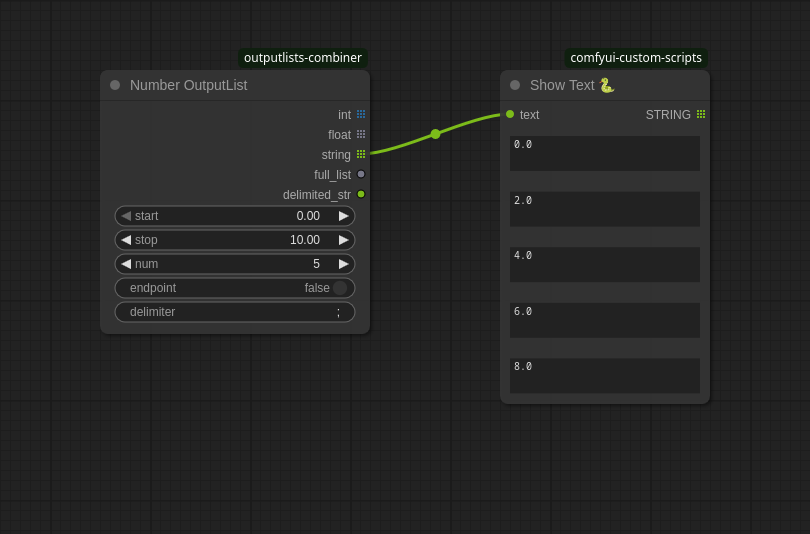
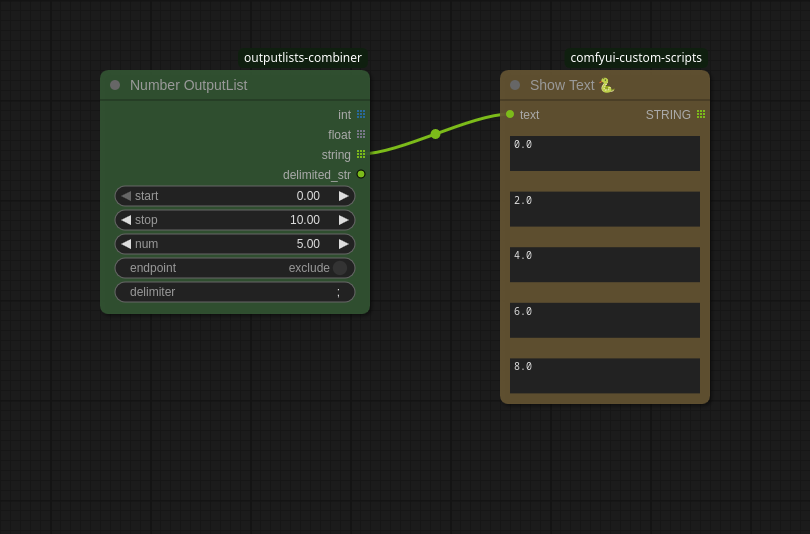
v0.0.2, removed full_lists, updated workflow examples

Changed region(s): [[0.1235, 0.1199, 0.463, 0.6292], [0.6173, 0.1199, 0.8951, 0.779]]

diff --git a/src/outputlists_combiner/nodes.py b/src/outputlists_combiner/nodes.py
@@ -20,7 +20,6 @@ inputs:
 outputs:
 * value: the values from the list. uses OUTPUT_IS_LIST=True and will be processed sequentially by corresponding nodes.
 * delimited_str: the list joined together by the delimiter, which is often useful for other nodes (like grid annotations).
-* full_list: the whole list without OUTPUT_IS_LIST=False in case some nodes require it.
 * count: the number of items in the list
 * inspect_combo: a dummy output only used to pre-fill the list with values from a COMBO input and will automatically disconnect again.
 """
@@ -41,9 +40,9 @@ outputs:
 			},
 		}
 
-	RETURN_NAMES	=	("value"	, "delimited_str"	, "full_list"	, "count"	, "inspect_combo"	)
-	RETURN_TYPES	=	(any	, "STRING"	, "STRING"	, "INT"	, "COMBO"	)
-	OUTPUT_IS_LIST	=	(True	, False	, False	, False	, False	)
+	RETURN_NAMES	=	("value"	, "delimited_str"	, "count"	, "inspect_combo"	)
+	RETURN_TYPES	=	(any	, "STRING"	, "INT"	, "COMBO"	)
+	OUTPUT_IS_LIST	=	(True	, False	, False	, False	)
 	FUNCTION	= "execute"
 	CATEGORY	= "Utility"
 
@@ -53,7 +52,7 @@ outputs:
 		value	= [s.strip() for s in values.split(unescaped_separator) if s.strip()]
 		delimited_str	= delimiter.join(value)
 		count	= len(value)
-		ret	= (value, delimited_str, value, count, inspect_combo)
+		ret	= (value, delimited_str, count, inspect_combo)
 		return ret
 
 class NumberOutputList:
@@ -72,7 +71,6 @@ All the values from the list use OUTPUT_IS_LIST=True and will be processed seque
 * int: the value converted to int (rounded down/floored)
 * float: the value as a float
 * str: the value as a string
-* full_list: the whole list without OUTPUT_IS_LIST=False in case some nodes require it.
 * count: the number of items in the list
 """
 
@@ -88,9 +86,9 @@ All the values from the list use OUTPUT_IS_LIST=True and will be processed seque
 				}
 		}
 
-	RETURN_NAMES	=	("int"	, "float"	, "string"	, "full_list"	, "delimited_str"	)
-	RETURN_TYPES	=	("INT"	, "FLOAT"	, "STRING"	, "LIST"	, "STRING"	)
-	OUTPUT_IS_LIST	=	(True	, True	, True	, False	, False	)
+	RETURN_NAMES	=	("int"	, "float"	, "string"	, "delimited_str"	)
+	RETURN_TYPES	=	("INT"	, "FLOAT"	, "STRING"	, "STRING"	)
+	OUTPUT_IS_LIST	=	(True	, True	, True	, False	)
 	FUNCTION = "execute"
 	CATEGORY = "Utility"
 
@@ -100,7 +98,7 @@ All the values from the list use OUTPUT_IS_LIST=True and will be processed seque
 		floats	= [float (v) for v in values]
 		strs	= [str (v) for v in values]
 		delimited_str	= delimiter.join(strs)
-		ret	= (ints, floats, strs, values, delimited_str)
+		ret	= (ints, floats, strs, delimited_str)
 		return ret
 
 class CombineOutputLists:
@@ -129,9 +127,9 @@ outputs:
 		}
 
 	INPUT_IS_LIST = True
-	RETURN_NAMES	=	("unzip_a"	, "unzip_b"	, "unzip_c"	, "unzip_d"	, "count"	, "full_list"	)
-	RETURN_TYPES	=	(any	, any	, any	, any	, "INT"	, "LIST"	)
-	OUTPUT_IS_LIST	=	(True	, True	, True	, True	, False	, False	)
+	RETURN_NAMES	=	("unzip_a"	, "unzip_b"	, "unzip_c"	, "unzip_d"	, "count"	)
+	RETURN_TYPES	=	(any	, any	, any	, any	, "INT"	)
+	OUTPUT_IS_LIST	=	(True	, True	, True	, True	, False	)
 	FUNCTION = "compute"
 	CATEGORY = "Utility"
 
@@ -139,7 +137,8 @@ outputs:
 		normalized	= [lst if len(lst) > 0 else [None] for lst in [list_a, list_b, list_c, list_d]]
 		product	= list(itertools.product(*normalized))
 		transposed	= tuple(map(list, zip(*product)))
-		return (*transposed, len(product), transposed)
+		ret	= (*transposed, len(product))
+		return ret
 
 class FormattedString:
 	DESCRIPTION = """Uses python str.format() internally, see https://docs.python.org/3/library/string.html#format-string-syntax .
@@ -166,15 +165,15 @@ outputs:
 				}
 		}
 
-	RETURN_NAMES	= ("string"	, "any"	)
-	RETURN_TYPES	= ("STRING"	, any	)
-	OUTPUT_IS_LIST	= (False	, False	)
+	RETURN_NAMES	= ("string",	)
+	RETURN_TYPES	= ("STRING",	)
+	OUTPUT_IS_LIST	= (False   ,	)
 	FUNCTION	= "execute"
 	CATEGORY	= "Utility"
 
 	def execute(self, fstring, a = "", b = "", c = "", d = ""):
-		ret = fstring.format(a=a, b=b, c=c, d=d)
-		return (ret, ret)
+		ret = (fstring.format(a=a, b=b, c=c, d=d),)
+		return ret
 
 class ConvertNumberToIntFloatStr:
 	@classmethod
@@ -191,29 +190,30 @@ class ConvertNumberToIntFloatStr:
 	CATEGORY = "Utility"
 
 	def execute(self, number):
-		return (int(number), number, str(number))
+		ret = (int(number), number, str(number))
+		return ret
 
-class StringToCombo:
-	DESCRIPTION = """
-"""
+# class StringToCombo:
+#	DESCRIPTION = """
+# """
 
-	@classmethod
-	def INPUT_TYPES(cls):
-		return {
-			"required": {
-				"string": ("STRING",),
-				},
-		}
+#	@classmethod
+#	def INPUT_TYPES(cls):
+#		return {
+#			"required": {
+#				"string": ("STRING",),
+#				},
+#		}
 
-	RETURN_NAMES	= ("combo",	"any"	)
-	RETURN_TYPES	= ("COMBO",	any	)
-	OUTPUT_IS_LIST	= (True, True	)
-	FUNCTION	= "execute"
-	CATEGORY	= "Utility"
+#	RETURN_NAMES	= ("combo",	"any"	)
+#	RETURN_TYPES	= ("COMBO",	any	)
+#	OUTPUT_IS_LIST	= (True, True	)
+#	FUNCTION	= "execute"
+#	CATEGORY	= "Utility"
 
-	def execute(self, string):
-		ret = (str(string))
-		return ([ret], [ret])
+#	def execute(self, string):
+#		ret = (str(string))
+#		return ([ret], [ret])
 
 NODE_CLASS_MAPPINGS = {
 	"StringOutputList"	: StringOutputList,
@@ -221,7 +221,7 @@ NODE_CLASS_MAPPINGS = {
 	"CombineOutputLists"	: CombineOutputLists,
 	"FormattedString"	: FormattedString,
 	"ConvertNumberToIntFloatStr"	: ConvertNumberToIntFloatStr,
-	"StringToCombo"	: StringToCombo,
+	#"StringToCombo"	: StringToCombo,
 }
 NODE_DISPLAY_NAME_MAPPINGS = {
 	"StringOutputList"	: "String OutputList",
@@ -229,5 +229,5 @@ NODE_DISPLAY_NAME_MAPPINGS = {
 	"CombineOutputLists"	: "OutputList Combinations",
 	"FormattedString"	: "Formatted String",
 	"ConvertNumberToIntFloatStr"	: "Convert any number to Int Float String",
-	"StringToCombo"	: "String To Combo",
+	#"StringToCombo"	: "String To Combo",
 }
